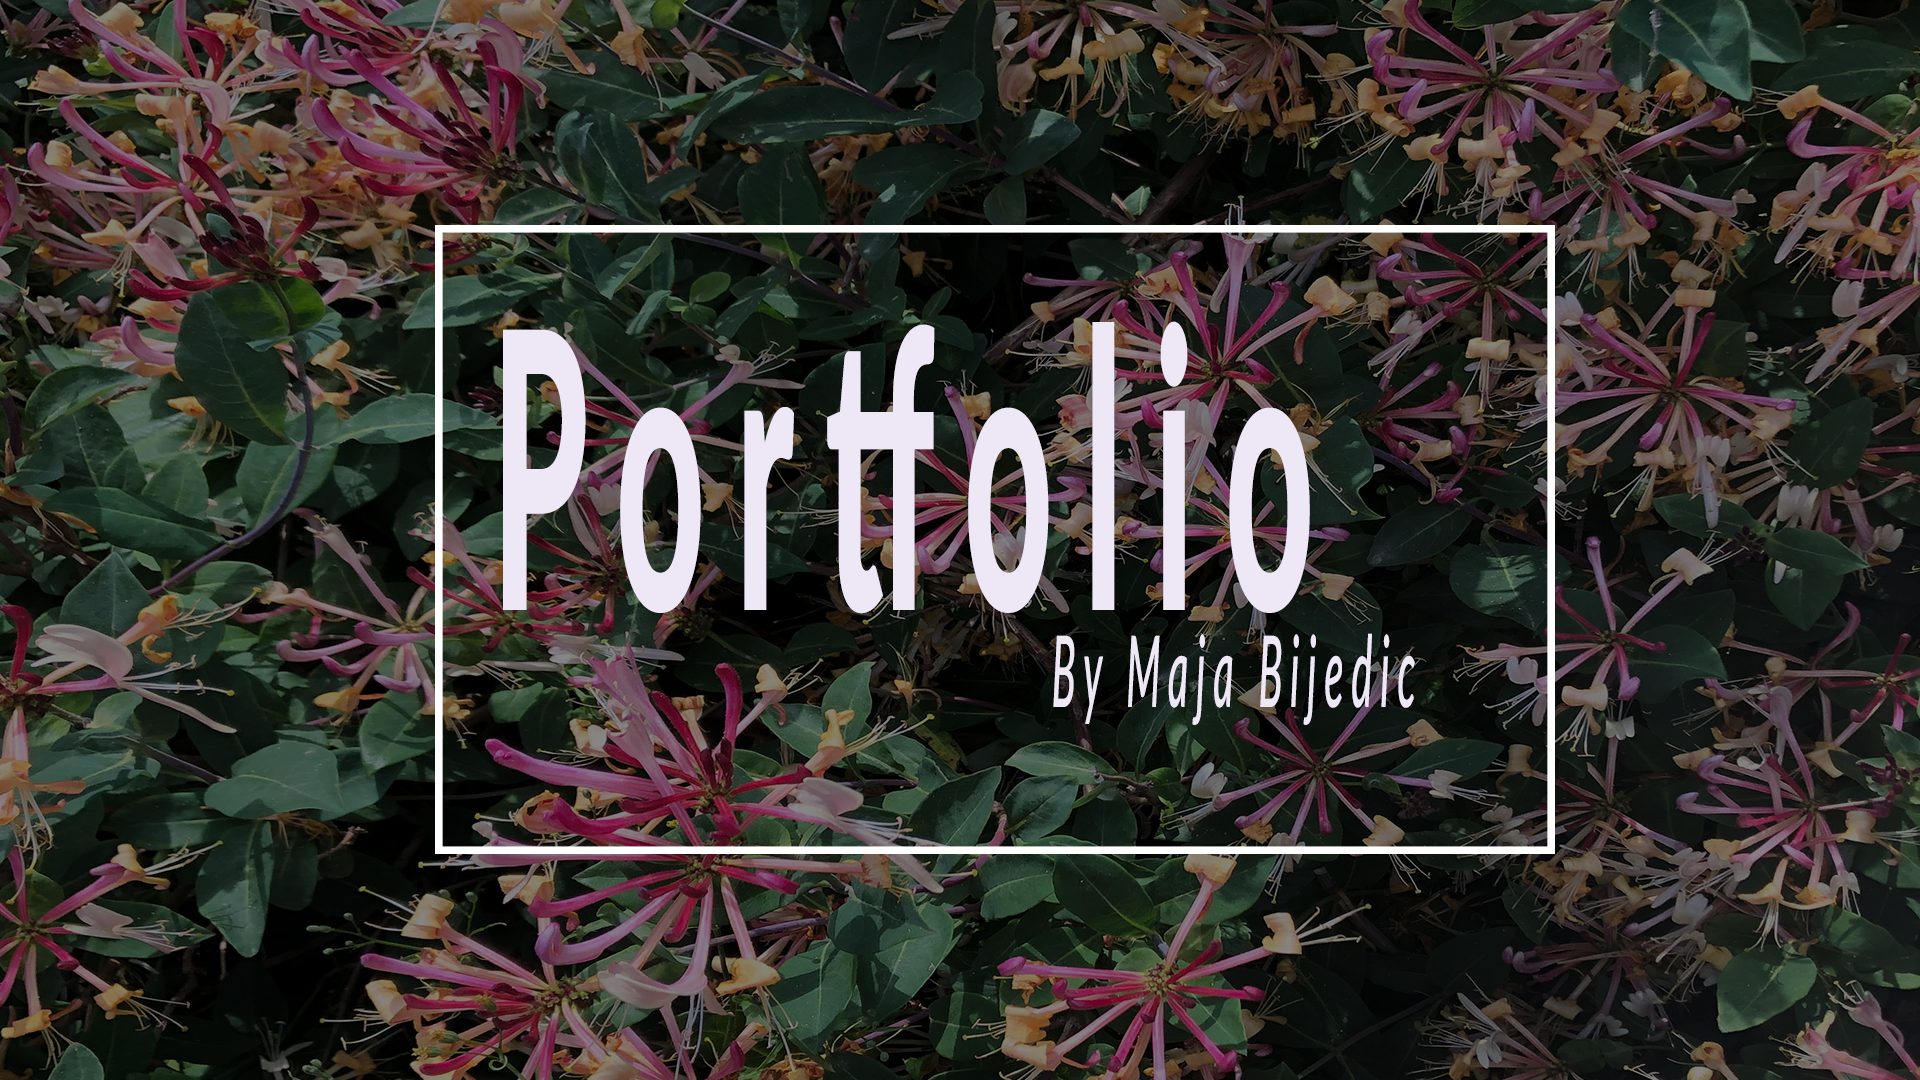
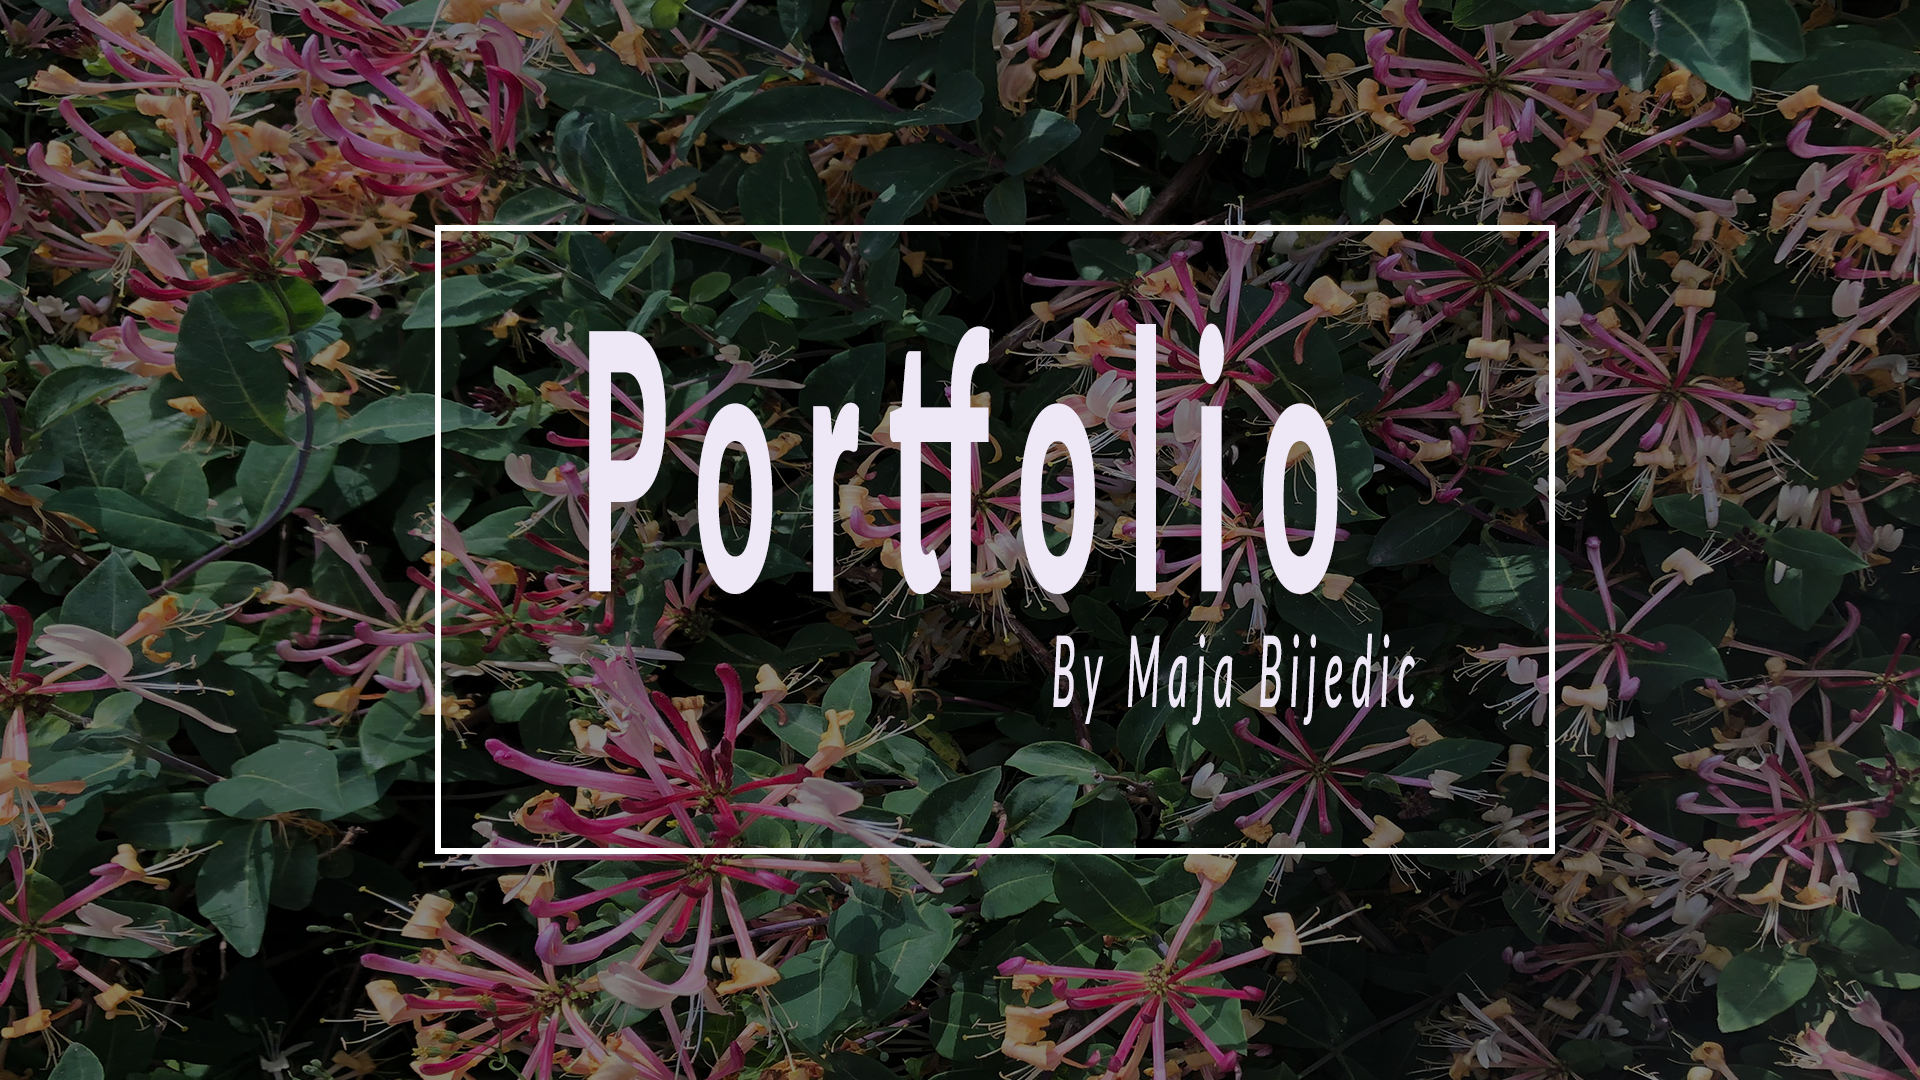
header billede

Changed region(s): [[0.25, 0.275, 0.7188, 0.5806]]

diff --git a/style.css b/style.css
@@ -5,6 +5,7 @@
 img {
     width: 100%;
 
+
 }
 
 #baggrund {
@@ -23,6 +24,13 @@ footer {
     color: whitesmoke;
 }
 
+#footer_port {
+    display: flex;
+    flex-wrap: wrap;
+    margin-top: 14vw;
+
+}
+
 #footer {
     display: flex;
     flex-wrap: wrap;
@@ -30,20 +38,31 @@ footer {
 
 .footer_txt {
     flex-grow: 1;
-    flex-basis: 220px;
+    flex-basis: 200px;
     margin: 2vw;
+    text-align: center;
 }
 
 #footer_img {
     flex-grow: 1;
-    flex-basis: 100px;
+    flex-basis: 200px;
     display: flex;
     margin: 2vw;
     justify-content: center;
 }
 
 #footer_img img {
-    width: 50px;
+    width: 40px;
+    height: 40px;
+}
+
+.copyright p {
+    flex-basis: 200px;
+    flex-grow: 1;
+    text-align: center;
+    font-size: 12px;
+    margin: 0;
+    padding-bottom: 1vw;
 }
 
 
@@ -207,7 +226,7 @@ nav a:hover {
 .collapsible1 {
     background-color: #bbb4c9;
     cursor: pointer;
-    margin: 40px 20px 0px 20px;
+    margin: 70px 20px 0px 20px;
     padding: 30px;
     width: 90vw;
     border: none;
@@ -499,6 +518,13 @@ nav a:hover {
         font-size: 25px;
         font-family: 'Lato', sans-serif;
         color: #393939;
+    }
+
+}
+
+@media only screen and (min-width: 400px) {
+    #baggrund {
+        background-position: 50% 0%;
     }
 
 }

diff --git a/portfolio.html b/portfolio.html
@@ -229,7 +229,7 @@
 
     <footer>
 
-        <div id="footer">
+        <div id="footer_port">
             <div class="footer_txt">
                 <p>Email: maja.bijedic@live.dk</p>
             </div>
@@ -244,6 +244,10 @@
                 <a href="https://www.instagram.com/majabijedic/">
                     <img src="insta.png" height="50" alt="insta"></a>
             </div>
+        </div>
+        <div class="copyright">
+
+            <p> © Copyright 2019 - All Rights Reserved ❘ Designed by Maja Bijedic</p>
         </div>
 
     </footer>

diff --git a/about.html b/about.html
@@ -18,7 +18,7 @@
 
 <body>
     <section id="splash_about">
-        <img src="om.png" height="200" alt="om">
+        <img src="proeve_blomster.png" height="200" alt="om">
     </section>
 
 
@@ -78,6 +78,11 @@
                 <a href="https://www.instagram.com/majabijedic/">
                     <img src="insta.png" height="50" alt="insta"></a>
             </div>
+
+        </div>
+        <div class="copyright">
+
+            <p> © Copyright 2019 - All Rights Reserved ❘ Designed by Maja Bijedic</p>
         </div>
 
     </footer>

diff --git a/index.html b/index.html
@@ -59,6 +59,10 @@
                     <img src="insta.png" height="50" alt="insta"></a>
             </div>
         </div>
+        <div class="copyright">
+
+            <p> © Copyright 2019 - All Rights Reserved ❘ Designed by Maja Bijedic</p>
+        </div>
 
     </footer>
 
